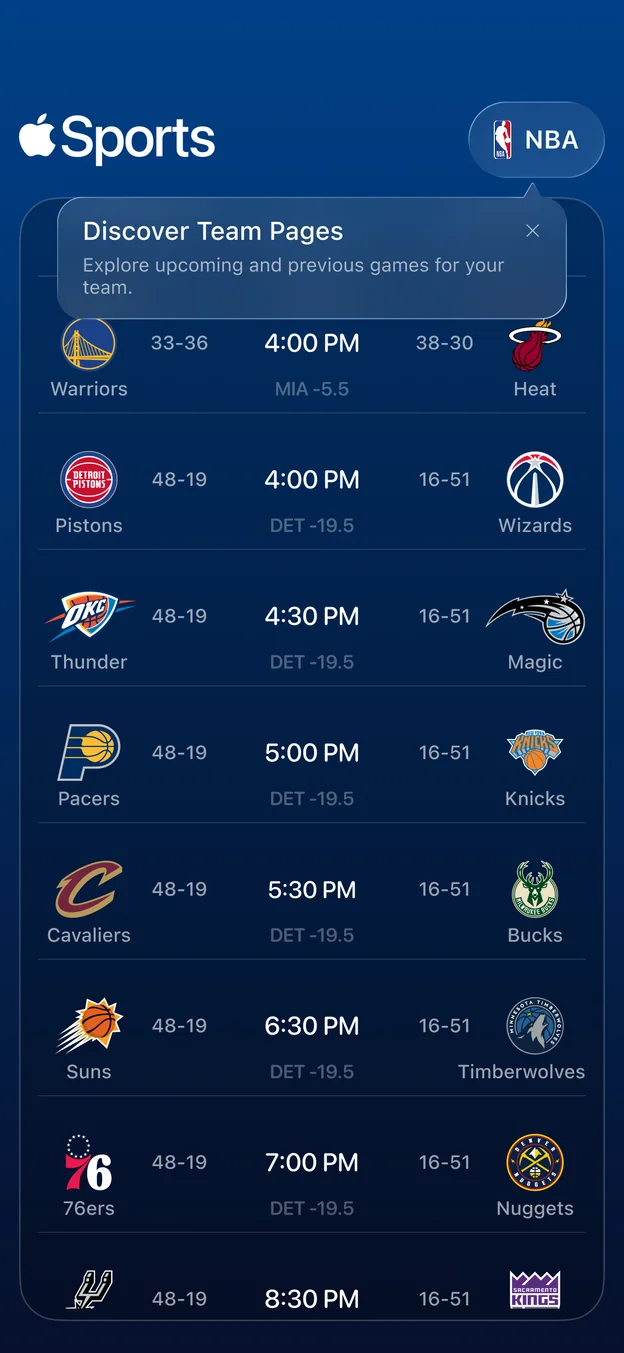
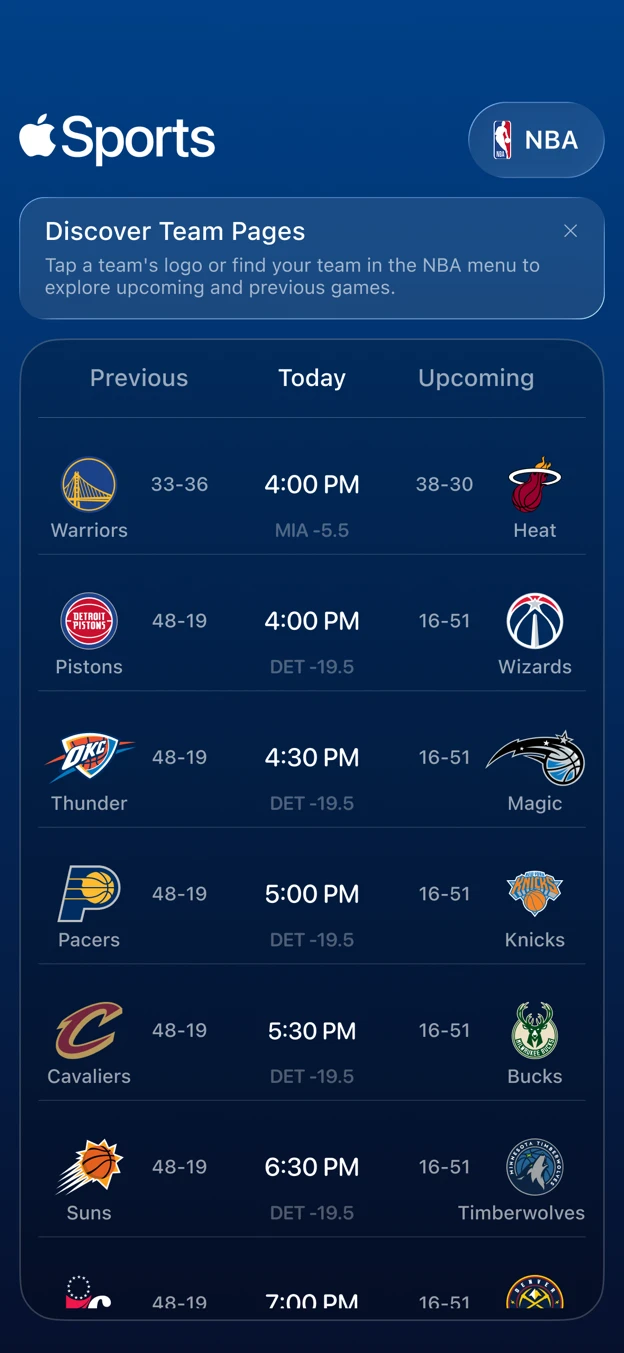
Updated apple case study with user testing

diff --git a/work/apple-sports-concept.html b/work/apple-sports-concept.html
@@ -184,6 +184,7 @@
                 <span class="pill-tag">VISUAL DESIGN</span>
                 <span class="pill-tag">COMPETITIVE ANALYSIS</span>
                 <span class="pill-tag">PROTOTYPING</span>
+                <span class="pill-tag">USER TESTING</span>
                 <span class="pill-tag">MOBILE</span>
             </div>
             <dl class="project-details">
@@ -397,6 +398,7 @@
                 <li>
                     <p class="case-moment-label">A third entry point</p>
                     <p><span class="case-em">Tapping a logo right in the list of games.</span> It would shrink the area that opens a game's card, as shown below.</p>
+                    <p><span class="case-em">Note:</span> I reversed this decision after user testing.</p>
                 </li>
                 <li>
                     <p class="case-moment-label">A single entry point</p>
@@ -466,6 +468,7 @@
                 </div>
                 <figcaption>Row layouts I tried before the final design.</figcaption>
             </figure>
+            <p class="section-content">Early versions kept both teams' logos and stacked the date on top, which wasted space on a page that's already about one team. Dropping the team's own logo freed up room for the date on the left, the opponent in the middle, and the time and shortened network on the right.</p>
             <figure class="case-figure">
                 <div class="case-rows">
                     <div class="case-row-group">
@@ -549,8 +552,10 @@
                 <div class="case-aside-text">
                     <p class="case-aside-label">Menu</p>
                     <p class="case-aside-title">Favorite teams in the menu</p>
-                    <p>The menu listed My Teams but not the teams in it. Each favorite team now has its own entry, which also makes the menu the second way into a team page.</p>
+                    <p>The menu listed My Teams but not the teams in it. Each favorite team now has its own entry, which also makes the menu another way into a team page.</p>
                 </div>
+                <!-- SHOT 3e: Figma, the open menu with favorite teams (Warriors, Heat) listed under NBA -->
+                <img class="shot is-actual" src="/images/apple-sports/03e-menu-open.webp" alt="Apple Sports' open menu listing Search, Home, My Teams, NBA, and favorite teams Warriors and Heat" width="645" height="1113" loading="lazy" decoding="async">
             </div>
             <div class="case-aside">
                 <div class="case-aside-text">
@@ -564,10 +569,79 @@
             </div>
         </div>
 
+        <!-- User testing -->
+        <div class="section-item">
+            <h2 class="section-header">User Testing</h2>
+            <p class="case-lede">Five people, two rounds, on their own iPhones.</p>
+            <p class="section-content">I tested the interactive prototype in Safari with five people: two sports fans and three casual or non-fans. Each person thought aloud through four tasks and rated each from 1 to 7 for ease:</p>
+            <ol class="case-tasks">
+                <li>Count how many of the Warriors' last five games they won.</li>
+                <li>Check whether the Warriors won a specific past game.</li>
+                <li>Find the Warriors' next game against the Lakers.</li>
+                <li>Find where to watch that game.</li>
+            </ol>
+            <p class="section-content">All five participants completed every task. Five people is a small sample, so the takeaways are directional, but fans moved through the team page quickly:</p>
+            <div class="case-quotes">
+                <figure class="case-quote">
+                    <blockquote>
+                        <p>“I think this makes it a lot easier to check schedules cause it's a lot quicker and I think it's less taps. Everything kind of flows in on the same screen.”</p>
+                    </blockquote>
+                    <figcaption>Round 2 participant · Apple Sports &amp; Yahoo Sports user</figcaption>
+                </figure>
+            </div>
+            <div class="case-rounds">
+                <div class="case-round-group">
+                    <p class="case-round-title">Finding the team page</p>
+                    <dl class="case-round-steps">
+                        <div class="case-round-step">
+                            <dt>Round 1</dt>
+                            <dd>All three testers had trouble opening a team page. One saw no sign that team logos were tappable, one needed a hint, and one tapped the Warriors right in the list of games expecting its team page.</dd>
+                        </div>
+                        <div class="case-round-step is-after">
+                            <dt>Round 2</dt>
+                            <dd>I reversed my earlier decision and made each team logo in the list of games tappable (tapping the middle of the row still opens the game card), and added one-time tips on the main screen and in the game card. Both Round 2 testers went straight from the list of games to the team page on every task with no help. Neither tapped or mentioned the tips, so the tappable team logo is the likelier reason.</dd>
+                        </div>
+                    </dl>
+                </div>
+                <div class="case-round-group">
+                    <p class="case-round-title">Keeping your place in the schedule</p>
+                    <dl class="case-round-steps">
+                        <div class="case-round-step">
+                            <dt>Round 1</dt>
+                            <dd>Two testers missed that date sections can collapse, or lost track of which month they were viewing while scrolling.</dd>
+                        </div>
+                        <div class="case-round-step is-after">
+                            <dt>Round 2</dt>
+                            <dd>I pinned month headers to the top while scrolling and enlarged the collapse arrows so they are easier to notice.</dd>
+                        </div>
+                    </dl>
+                </div>
+            </div>
+            <figure class="case-figure">
+                <div class="case-stage">
+                    <!-- SHOTS 7, 7b: Figma, the one-time tip on launch and in a game's card -->
+                    <div class="phone"><img src="/images/apple-sports/07-launch-tip.webp?v=3" alt="Apple Sports' NBA screen with a tip that reads Discover Team Pages: tap a team's logo or find your team in the NBA menu to explore upcoming and previous games" width="624" height="1353" loading="lazy" decoding="async"></div>
+                    <div class="phone"><img src="/images/apple-sports/07b-game-card-tip.webp?v=2" alt="A game's card with a tip that reads Discover Team Pages: tap on the team logo to explore upcoming and previous games" width="624" height="1353" loading="lazy" decoding="async"></div>
+                </div>
+                <figcaption>The one-time tips added for Round 2: on the main screen, and in a game card.</figcaption>
+            </figure>
+            <p class="case-round-title">Two things stood out after Round 2:</p>
+            <dl class="case-specs">
+                <div>
+                    <dt>Month headers</dt>
+                    <dd>Finding the next Lakers game (task 3) was the lowest-rated task for four of five testers. Scrolling only took a few seconds, but the small, dim month headers forced both Round 2 testers to scroll back and forth to confirm the month.</dd>
+                </div>
+                <div>
+                    <dt>Who it fits</dt>
+                    <dd>Three of five testers said they would stick with ESPN or Google. Only the participant who already uses Apple Sports said team pages would change how they check, suggesting the concept fits fans who already want a fast, minimal tracker.</dd>
+                </div>
+            </dl>
+        </div>
+
         <!-- Success -->
         <div class="section-item">
             <h2 class="section-header">Measuring Success</h2>
-            <dl class="case-specs">
+            <dl class="case-metrics">
                 <div>
                     <dt>Usage</dt>
                     <dd>How often team pages are opened.</dd>
@@ -585,23 +659,14 @@
                     <dd>Whether people open the game card's Series section, to test the assumption behind it.</dd>
                 </div>
             </dl>
-            <p class="case-tradeoff"><span>Biggest risk</span>Discoverability. Team pages only open from a logo or the menu, so users may never find them. A one-time tip when the app opens, like the built-in tips iOS already uses, would point them out without cluttering the interface.</p>
-            <figure class="case-figure">
-                <div class="case-stage">
-                    <!-- SHOTS 7, 7b: Figma, the one-time tip on launch and in a game's card -->
-                    <div class="phone"><img src="/images/apple-sports/07-launch-tip.webp?v=2" alt="Apple Sports' NBA screen with a tip that reads Discover Team Pages: explore upcoming and previous games for your team" width="624" height="1353" loading="lazy" decoding="async"></div>
-                    <div class="phone"><img src="/images/apple-sports/07b-game-card-tip.webp?v=2" alt="A game's card with a tip that reads Discover Team Pages: tap on the team logo to explore upcoming and previous games" width="624" height="1353" loading="lazy" decoding="async"></div>
-                </div>
-                <figcaption>A one-time tip: on launch, and in a game's card.</figcaption>
-            </figure>
         </div>
 
         <!-- Next steps -->
         <div class="section-item">
             <h2 class="section-header">Next Steps</h2>
-            <p class="case-lede">Test it with fans, then bring team pages to every sport.</p>
-            <p class="section-content">First, I'd test the design with Apple Sports users: whether they find team pages from a logo or the menu, whether the new rows read at a glance, and whether the Series section earns its space.</p>
-            <p class="section-content">This concept covers the NBA only. After testing, I'd extend it to every sport in the app and make sure the layout holds up to each sport's differences. In some sports, for example, a game has no single opponent, or no opponent record to show, so the row would need to adapt.</p>
+            <p class="case-lede">Make the month headers easier to scan, then bring team pages to every sport.</p>
+            <p class="section-content">From Round 2, the clearest fix is making the month headers larger and easier to read at a glance so fans don't have to scroll back to confirm the month.</p>
+            <p class="section-content">This concept covers the NBA only. From there, I'd extend it to every sport in the app and make sure the layout holds up to each sport's differences. In some sports, for example, a game has no single opponent, or no opponent record to show, so the row would need to adapt.</p>
         </div>
 
         <!-- Reflection -->
@@ -609,6 +674,7 @@
             <h2 class="section-header">What I Learned</h2>
             <p class="case-lede">Most of the work was in the decisions: where the page lives, what it leaves out, and how far to move from the existing design.</p>
             <p class="section-content">A small, well-placed addition can solve a real problem without changing what makes a product good.</p>
+            <p class="section-content">Testing also overturned an early assumption I felt sure about (keeping team logos untappable in the list of games) and showed that small legibility details, like dim month headers, can hurt confidence more than big layout choices.</p>
         </div>
     </div>
 

diff --git a/css/style.css b/css/style.css
@@ -2082,19 +2082,50 @@ a.work-thumbnail:active {
     color: var(--text-primary);
 }
 
-/* label | text rows: TL;DR, specs, metrics */
+/* label | text rows: TL;DR, specs (dividers only between rows, never on outer edges) */
 .case-tldr > div,
 .case-specs > div {
     display: grid;
     grid-template-columns: 7rem minmax(0, 1fr);
     column-gap: var(--space-sm);
     padding: var(--space-sm) 0;
+}
+
+.case-tldr > div + div,
+.case-specs > div + div {
     border-top: 1px solid var(--line-faint);
 }
 
-.case-tldr > div:last-child,
-.case-specs > div:last-child {
-    border-bottom: 1px solid var(--line-faint);
+/* 2-column borderless editorial grid for short metrics (Measuring Success): always 2x2 above mobile */
+.case-metrics {
+    display: grid;
+    grid-template-columns: repeat(2, minmax(0, 1fr));
+    gap: var(--space-lg) var(--space-xl);
+}
+
+@media (max-width: 560px) {
+    .case-metrics {
+        grid-template-columns: 1fr;
+    }
+}
+
+.case-metrics > div {
+    display: flex;
+    flex-direction: column;
+    gap: var(--space-xs);
+}
+
+.case-metrics dt {
+    font-size: var(--text-2xs);
+    font-weight: var(--weight-semibold);
+    letter-spacing: var(--tracking-wide);
+    text-transform: uppercase;
+    color: var(--text-primary);
+}
+
+.case-metrics dd {
+    font-size: var(--text-md);
+    color: var(--text-secondary);
 }
 
 .case-tldr dt,
@@ -2463,6 +2494,89 @@ html:has(.proto-dialog[open]) {
     text-decoration-color: color-mix(in srgb, var(--text-secondary) 60%, transparent);
 }
 
+/* numbered testing tasks: quiet editorial list */
+.case-tasks {
+    list-style: none;
+    counter-reset: task;
+    display: flex;
+    flex-direction: column;
+    gap: var(--space-xs);
+    padding-left: var(--space-xs);
+}
+
+.case-tasks li {
+    counter-increment: task;
+    display: grid;
+    grid-template-columns: 1.5rem 1fr;
+    align-items: baseline;
+    gap: var(--space-xs);
+    font-size: var(--text-base);
+    color: var(--text-secondary);
+}
+
+.case-tasks li::before {
+    content: counter(task) ".";
+    font-size: var(--text-base);
+    font-weight: var(--weight-medium);
+    font-variant-numeric: tabular-nums;
+    color: var(--text-primary);
+}
+
+/* Round 1 to Round 2 iteration rows: two-tone editorial blocks */
+.case-rounds {
+    display: flex;
+    flex-direction: column;
+    gap: var(--space-lg);
+}
+
+.case-round-group {
+    display: flex;
+    flex-direction: column;
+    gap: var(--space-sm);
+}
+
+.case-round-group + .case-round-group {
+    padding-top: var(--space-md);
+    border-top: 1px solid var(--line-faint);
+}
+
+.case-round-title {
+    font-size: var(--text-lg);
+    font-weight: var(--weight-medium);
+    line-height: var(--leading-snug);
+    color: var(--text-primary);
+}
+
+.case-round-steps {
+    display: flex;
+    flex-direction: column;
+    gap: var(--space-sm);
+}
+
+.case-round-step {
+    display: grid;
+    grid-template-columns: 5.5rem 1fr;
+    align-items: baseline;
+    gap: var(--space-md);
+    font-size: var(--text-base);
+    color: var(--text-secondary);
+}
+
+.case-round-step dt {
+    font-size: var(--text-2xs);
+    font-weight: var(--weight-semibold);
+    letter-spacing: var(--tracking-wide);
+    text-transform: uppercase;
+    color: var(--text-secondary);
+}
+
+@media (max-width: 560px) {
+    .case-round-step {
+        grid-template-columns: 1fr;
+        gap: var(--space-xs);
+    }
+}
+
 /* a side note with its screenshot beside it, in one panel. The text needs about 16rem, so on narrow
    screens the phone wraps below it, centered */
 .case-aside {
@@ -2501,11 +2615,16 @@ html:has(.proto-dialog[open]) {
     color: var(--text-primary);
 }
 
-.case-aside > .phone {
+.case-aside > .phone,
+.case-aside > .shot {
     flex: 0 0 auto;
     width: 11rem;
     max-width: none;
     margin-inline: auto; /* centered when it sits on its own line */
+}
+
+.case-aside > img.shot {
+    outline: none;
 }
 
 /* tradeoff / risk callout */
@@ -2979,6 +3098,14 @@ img.shot {
         0 3px 6px rgb(0 0 0 / calc(0.1 * var(--object-shadow))),
         0 12px 24px -4px rgb(0 0 0 / calc(0.16 * var(--object-shadow))),
         0 32px 56px -16px rgb(0 0 0 / calc(0.28 * var(--object-shadow)));
+}
+
+/* transparent-corner UI cutouts inside an aside: drop-shadow follows the real shape instead of a rectangular box */
+.case-aside > img.shot.is-actual {
+    outline: none;
+    border-radius: 0;
+    box-shadow: none;
+    filter: drop-shadow(0 12px 24px rgb(0 0 0 / calc(0.22 * var(--object-shadow))));
 }
 
 /* labeled screenshots of other apps, sized by the figure's own width so they stay readable:

diff --git a/prototypes/apple-sports/styles.css b/prototypes/apple-sports/styles.css
@@ -67,7 +67,7 @@ button {
 }
 
 /* Fill the screen on a real phone */
-@media (max-width: 430px) {
+@media (max-width: 500px) {
   body {
     display: block;
   }
@@ -81,7 +81,7 @@ button {
    the drawn time and icons and leave its safe area instead — the real status
    bar's height when added to the Home Screen (full screen), or a small gap
    under Safari's toolbar in a normal tab */
-@media (max-width: 430px) and (pointer: coarse) {
+@media (max-width: 500px) and (pointer: coarse) {
   :root {
     --status-h: max(env(safe-area-inset-top, 0px), 12px);
   }
